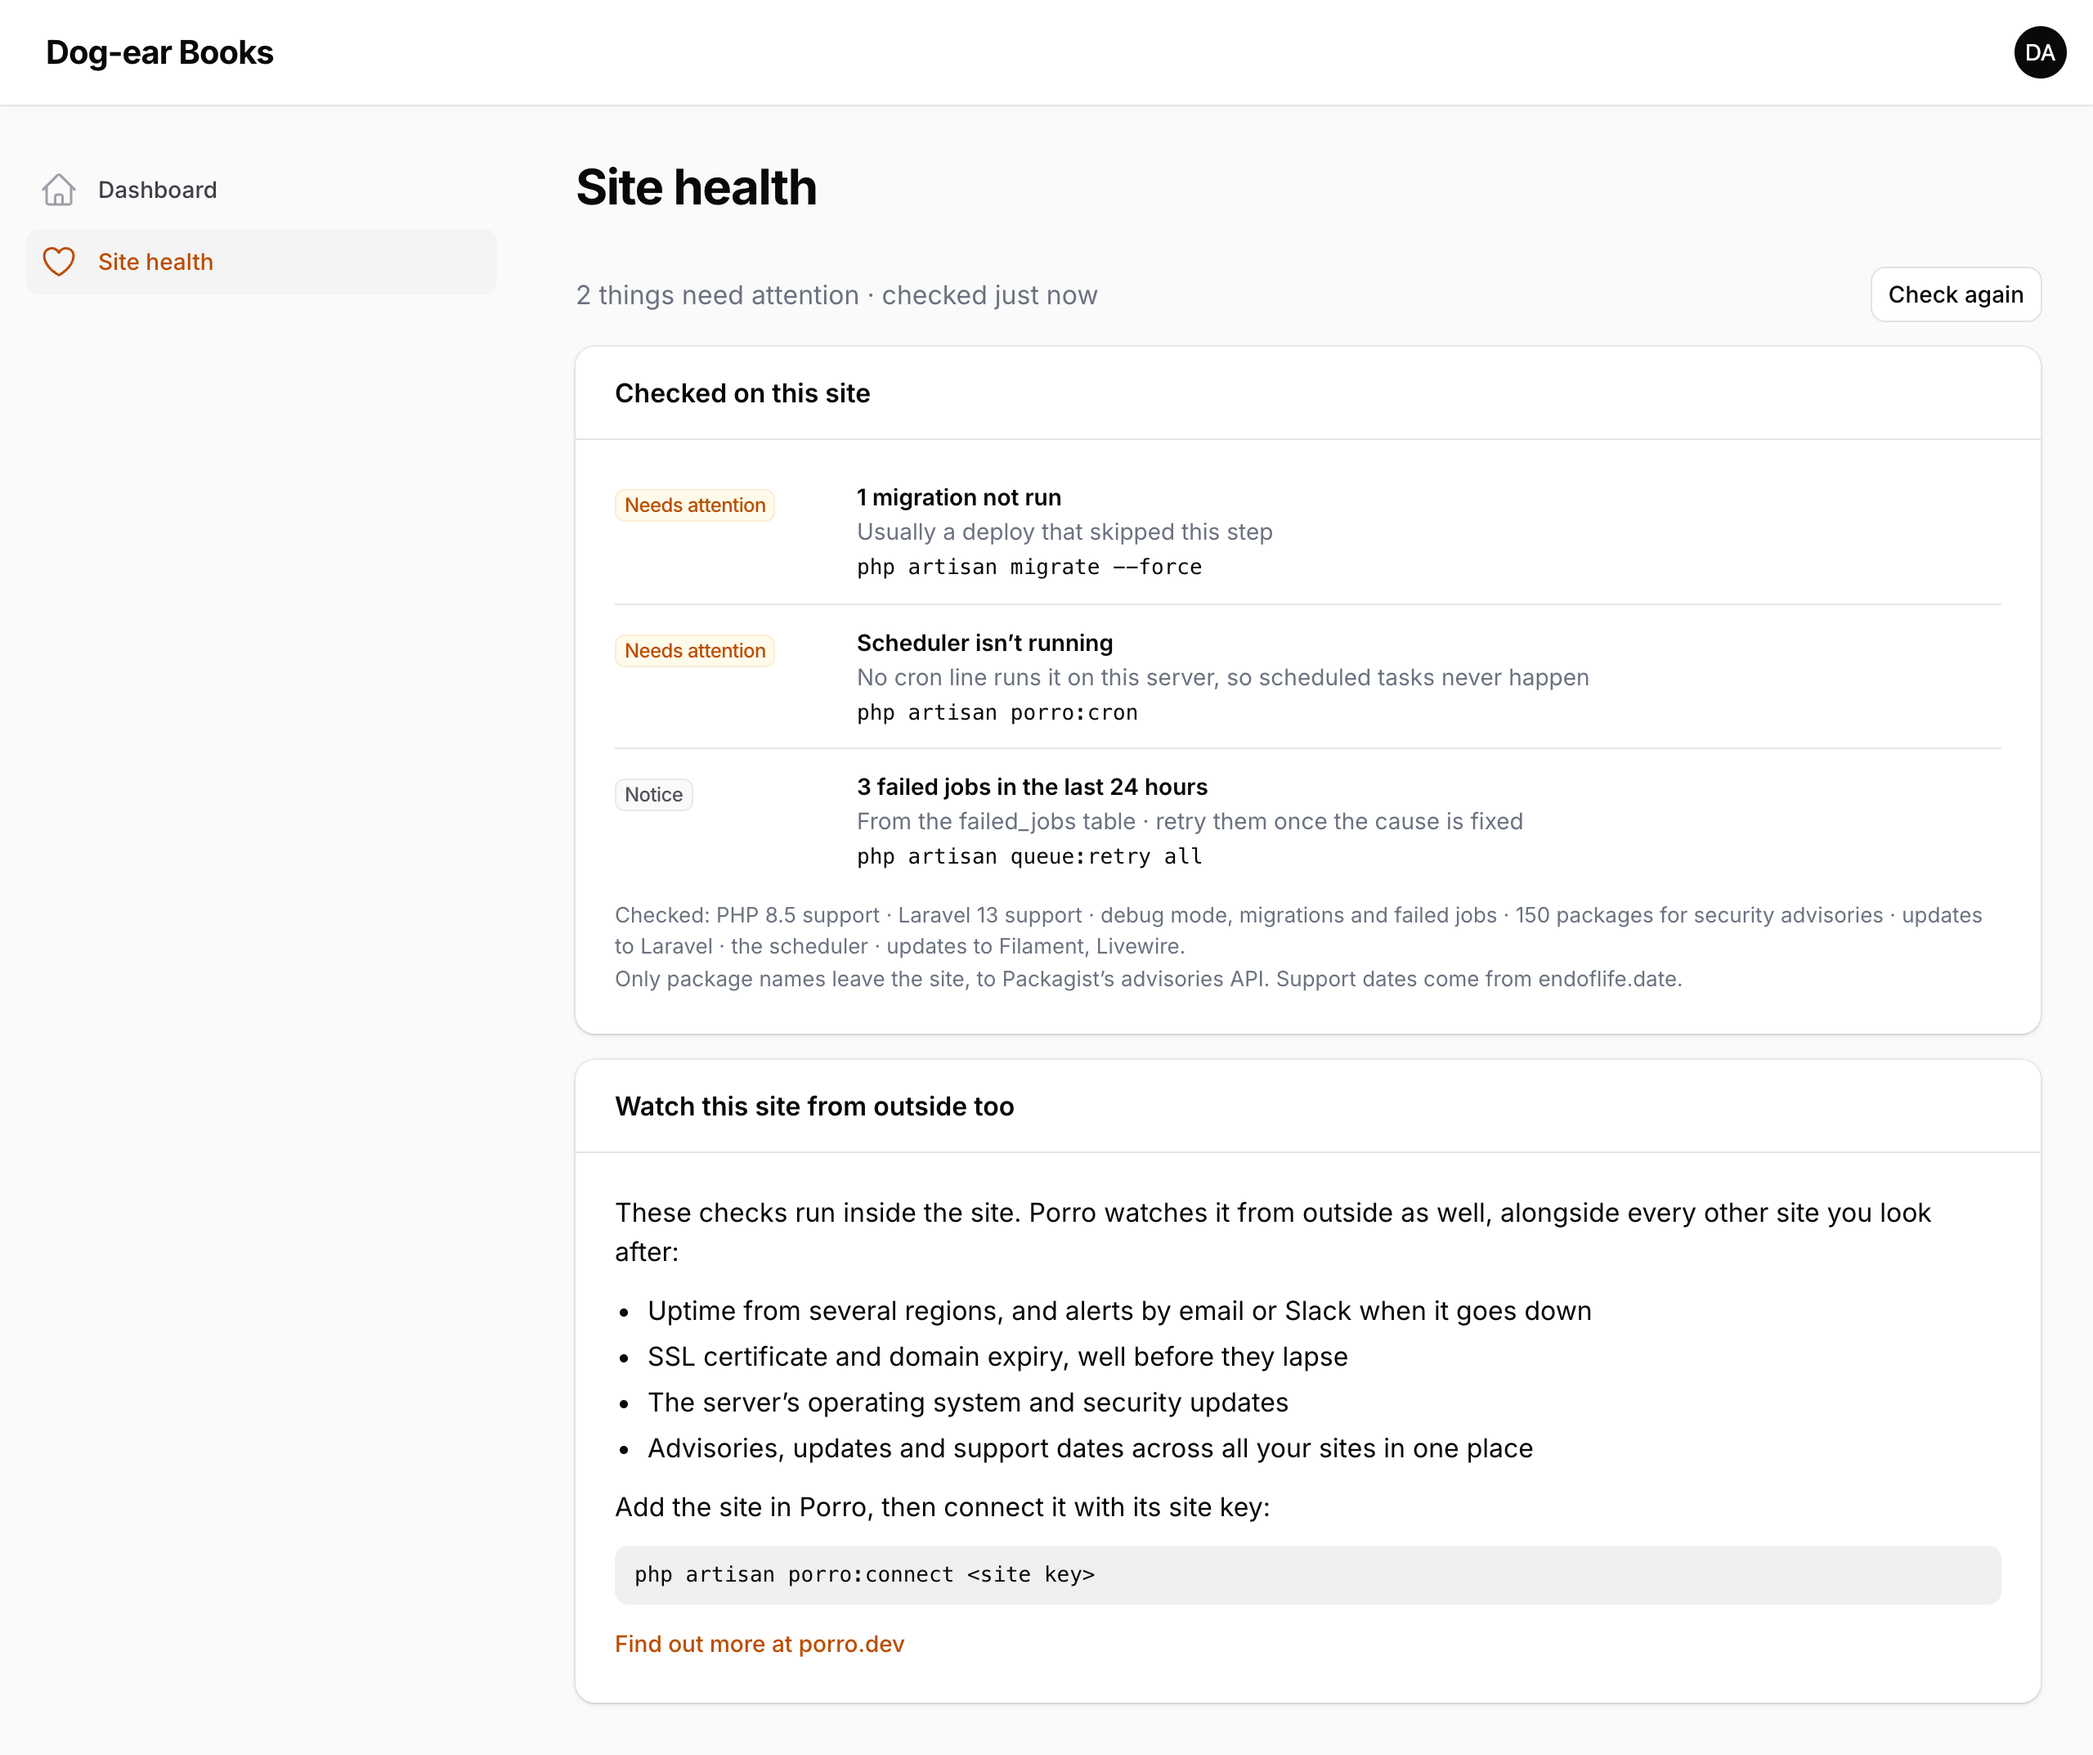
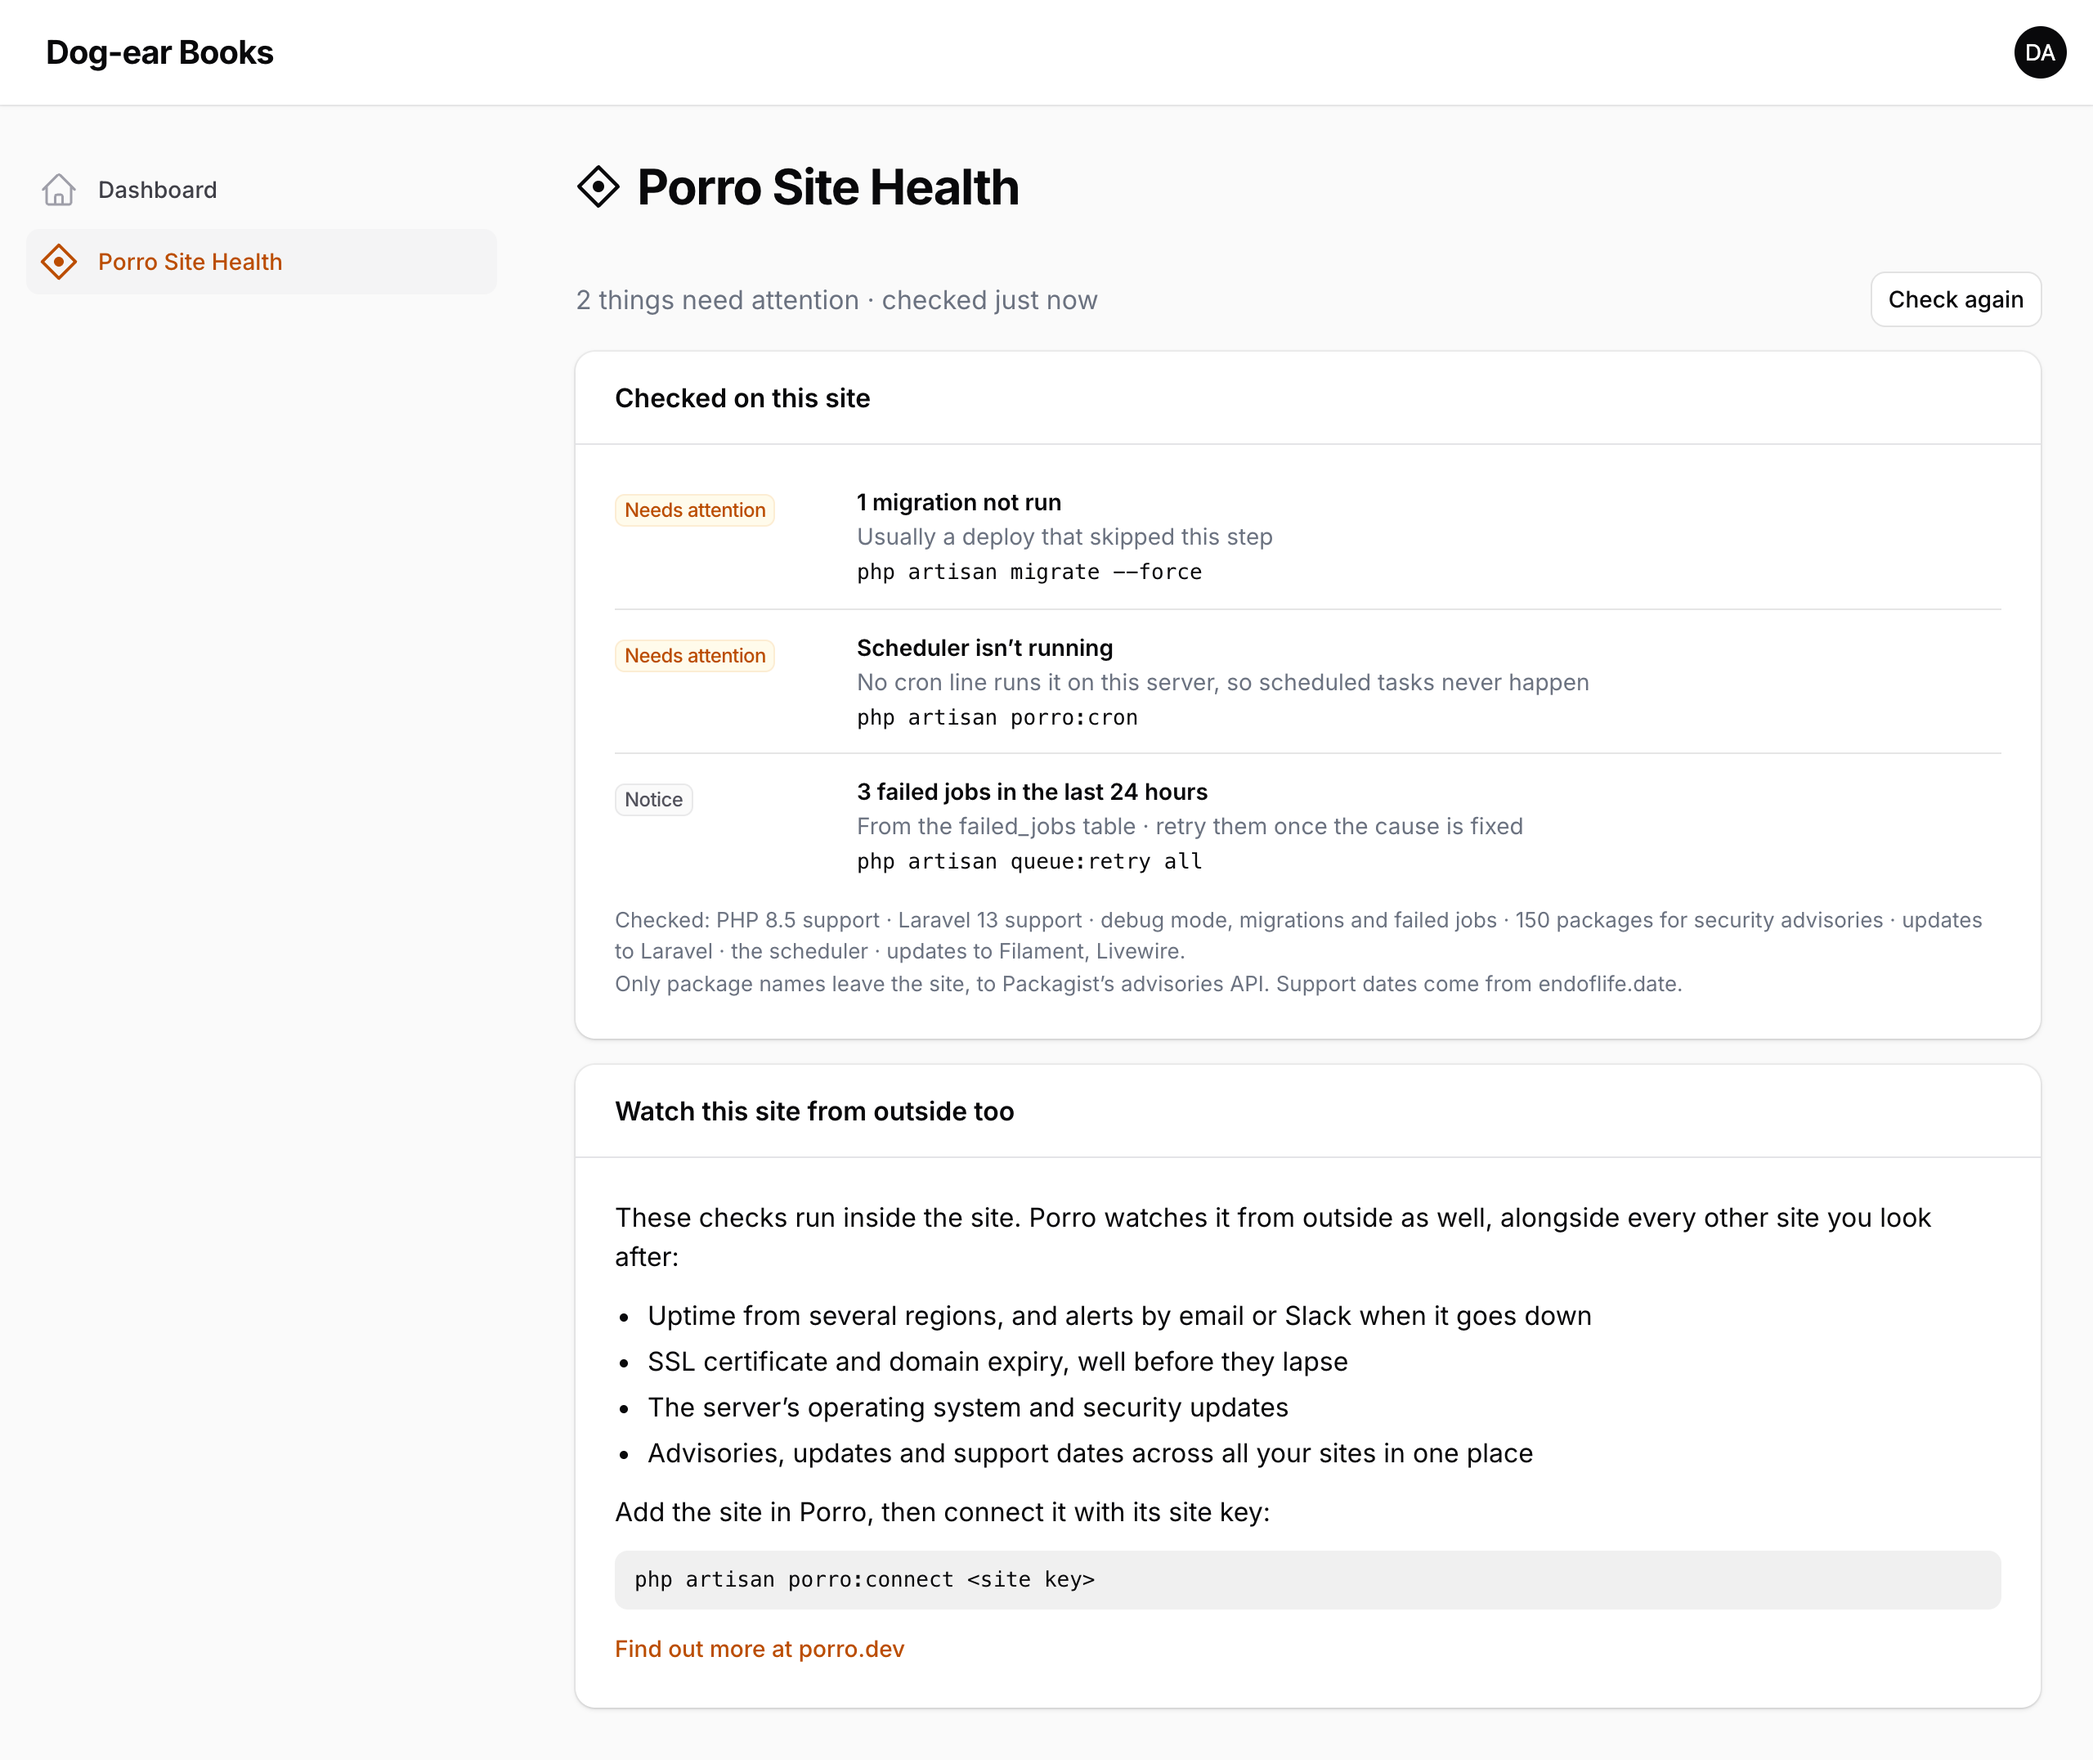
Brand it Porro Site Health, with the Porro mark
The page, nav item, widget and permission now say Porro Site Health,
and the Porro mark (the diamond and dot from Porro's own logo) is its
icon and sits beside the page heading, so people see Porro wherever
they see their site's health. Screenshots retaken from the demo.

diff --git a/tests/SiteHealthTest.php b/tests/SiteHealthTest.php
@@ -37,12 +37,13 @@ it('adds the Site health page to the panel', function () {
     expect(Filament::getPanel('admin')->getPages())->toContain(SiteHealthPage::class)
         ->and(Filament::getPanel('admin')->getWidgets())->toContain(SiteHealthWidget::class)
         ->and(SiteHealthPage::getSlug())->toBe('site-health')
-        ->and(SiteHealthPage::getNavigationLabel())->toBe('Site health');
+        ->and(SiteHealthPage::getNavigationLabel())->toBe('Porro Site Health')
+        ->and(SiteHealthPage::getNavigationIcon())->toBe('porro-mark');
 });
 
 it('leaves the panel’s other pages alone', function () {
-    expect(Dashboard::getNavigationLabel())->not->toBe('Site health')
-        ->and(Dashboard::getNavigationIcon())->not->toBe('heroicon-o-heart');
+    expect(Dashboard::getNavigationLabel())->not->toBe('Porro Site Health')
+        ->and(Dashboard::getNavigationIcon())->not->toBe('porro-mark');
 });
 
 it('shows the site’s health without a Porro account, with the connect command', function () {
@@ -51,6 +52,7 @@ it('shows the site’s health without a Porro account, with the connect command'
 
     Livewire::test(SiteHealthPage::class)
         ->assertSuccessful()
+        ->assertSee('Porro Site Health')
         ->assertSee('Checked on this site')
         ->assertSee('Filament '.strtok((string) InstalledVersions::getVersion('filament/filament'), '.').'.99.0 is available')
         ->assertSee('Scheduler isn’t running')
@@ -130,7 +132,7 @@ it('shows a dashboard widget with the top issues', function () {
     $this->actingAs(panelUser());
 
     Livewire::test(SiteHealthWidget::class)
-        ->assertSee('Site health')
+        ->assertSee('Porro Site Health')
         ->assertSee('SSL certificate expires in 9 days')
         ->assertSee(SiteHealthPage::getUrl());
 });

diff --git a/src/Pages/SiteHealthPage.php b/src/Pages/SiteHealthPage.php
@@ -4,6 +4,9 @@ namespace Porro\Filament\Pages;
 
 use Filament\Pages\Page;
 use Filament\Panel;
+use Illuminate\Contracts\Support\Htmlable;
+use Illuminate\Support\Facades\Blade;
+use Illuminate\Support\HtmlString;
 use Porro\Filament\PorroPlugin;
 use Porro\Filament\SiteHealthView;
 use Porro\Laravel\SiteHealth;
@@ -34,17 +37,29 @@ class SiteHealthPage extends Page
 
     public function getTitle(): string
     {
-        return __('Site health');
+        return __('Porro Site Health');
+    }
+
+    /**
+     * The title with the Porro mark in front, so the page always reads as
+     * Porro's.
+     */
+    public function getHeading(): Htmlable
+    {
+        return new HtmlString(Blade::render(
+            '<span style="display: inline-flex; align-items: center; gap: .6rem"><x-filament::icon icon="porro-mark" style="width: 1.75rem; height: 1.75rem" />{{ $title }}</span>',
+            ['title' => $this->getTitle()],
+        ));
     }
 
     public static function getNavigationLabel(): string
     {
-        return __('Site health');
+        return __('Porro Site Health');
     }
 
     public static function getNavigationIcon(): ?string
     {
-        return 'heroicon-o-heart';
+        return 'porro-mark';
     }
 
     public static function getNavigationGroup(): ?string

diff --git a/resources/views/widget.blade.php b/resources/views/widget.blade.php
@@ -1,7 +1,7 @@
 <x-filament-widgets::widget>
     @include('porro-filament::styles')
 
-    <x-filament::section :heading="__('Site health')">
+    <x-filament::section :heading="__('Porro Site Health')" icon="porro-mark">
         <div class="porro-health">
             <p class="porro-health-muted" role="status">@include('porro-filament::summary')</p>
 
@@ -10,7 +10,7 @@
             @endif
 
             <p class="porro-health-small">
-                <x-filament::link :href="$pageUrl">{{ $more ? trans_choice('See :count more|See :count more', $more, ['count' => $more]) : __('Open Site health') }}</x-filament::link>
+                <x-filament::link :href="$pageUrl">{{ $more ? trans_choice('See :count more|See :count more', $more, ['count' => $more]) : __('Open Porro Site Health') }}</x-filament::link>
                 @unless ($connected)
                     <span class="porro-health-muted"> · {{ __('Connect Porro for uptime, SSL and domain checks') }}</span>
                 @endunless

diff --git a/src/FilamentConnectorServiceProvider.php b/src/FilamentConnectorServiceProvider.php
@@ -2,6 +2,7 @@
 
 namespace Porro\Filament;
 
+use BladeUI\Icons\Factory;
 use Illuminate\Support\ServiceProvider;
 
 class FilamentConnectorServiceProvider extends ServiceProvider
@@ -10,6 +11,13 @@ class FilamentConnectorServiceProvider extends ServiceProvider
     {
         $this->app->tag([FilamentCollector::class], 'porro.collectors');
         $this->app->tag([FilamentHealth::class], 'porro.health');
+
+        // The Porro mark as an icon, "porro-mark", for the navigation, the
+        // page heading and the widget.
+        $this->callAfterResolving(Factory::class, fn (Factory $icons) => $icons->add('porro', [
+            'path' => __DIR__.'/../resources/svg',
+            'prefix' => 'porro',
+        ]));
     }
 
     public function boot(): void

diff --git a/README.md b/README.md
@@ -1,10 +1,10 @@
 # Porro Site Health for Filament
 
-A Site health page for Filament 3, 4 and 5 panels. It checks the app for the things that quietly go wrong between projects (security advisories in your Composer packages, PHP and Laravel versions running out of security support, Filament, Livewire and Laravel updates, a scheduler that never runs) and tells you what to do about each.
+A Porro Site Health page for Filament 3, 4 and 5 panels. It checks the app for the things that quietly go wrong between projects (security advisories in your Composer packages, PHP and Laravel versions running out of security support, Filament, Livewire and Laravel updates, a scheduler that never runs) and tells you what to do about each.
 
 It's free and works on its own. If you use [Porro](https://porro.dev) to look after your sites, connecting it adds what can only be seen from outside: uptime, SSL certificates, domain expiry and the server's operating system.
 
-![The Site health page in a Filament panel on a site that isn't connected to Porro: a migration not run, the scheduler not running and three failed jobs, with the commands that fix them](docs/images/filament-site-health.png)
+![The Porro Site Health page in a Filament panel on a site that isn't connected to Porro: a migration not run, the scheduler not running and three failed jobs, with the commands that fix them](docs/images/filament-site-health.png)
 
 ## Install
 
@@ -25,9 +25,9 @@ public function panel(Panel $panel): Panel
 }
 ```
 
-That adds a **Site health** page and a lazy-loaded dashboard widget. No assets to publish or build.
+That adds a **Porro Site Health** page, with the Porro mark in the navigation, and a lazy-loaded dashboard widget. No assets to publish or build.
 
-<img src="docs/images/filament-widget.png" alt="The Site health dashboard widget" width="400">
+<img src="docs/images/filament-widget.png" alt="The Porro Site Health dashboard widget" width="400">
 
 ### Options
 
@@ -75,7 +75,9 @@ php artisan porro:connect <site key>
 
 The page then shows the site's open findings in Porro alongside the checks above, each linking to Porro.
 
-![Site health connected to Porro, in dark mode: an end-of-life server, an expiring certificate and domain, and a slow region, above the checks run on the site](docs/images/filament-site-health-dark.png) Connecting also sends Porro a signed report every 15 minutes on Laravel's scheduler: Filament, Livewire, plugin and package versions, each panel's id, path, whether it has a login and (from Filament 4) whether multi-factor authentication is required, plus the health facts above. Never content, users or settings values. Run `php artisan porro:status --json` to see exactly what would be sent, and see the [Laravel connector](https://github.com/Porrodev/laravel-connector) for config and commands.
+![Porro Site Health connected to Porro, in dark mode: an end-of-life server, an expiring certificate and domain, and a slow region, above the checks run on the site](docs/images/filament-site-health-dark.png)
+
+Connecting also sends Porro a signed report every 15 minutes on Laravel's scheduler: Filament, Livewire, plugin and package versions, each panel's id, path, whether it has a login and (from Filament 4) whether multi-factor authentication is required, plus the health facts above. Never content, users or settings values. Run `php artisan porro:status --json` to see exactly what would be sent, and see the [Laravel connector](https://github.com/Porrodev/laravel-connector) for config and commands.
 
 `porro:connect` offers to add the scheduler's cron line; `php artisan porro:cron` adds it on its own.
 

diff --git a/CHANGELOG.md b/CHANGELOG.md
@@ -2,7 +2,7 @@
 
 ## Unreleased (0.2.0)
 
-- **Site health**: `PorroPlugin` adds a Site health page and a lazy dashboard widget to a panel. Without a Porro account they check security advisories in `composer.lock`, PHP and Laravel support dates, Filament, Livewire and Laravel updates, the scheduler, debug mode, migrations, failed jobs, backups and health checks. Once connected they add the site's open Porro findings with links into Porro.
+- **Porro Site Health**: `PorroPlugin` adds a Porro Site Health page, with the Porro mark as its icon, and a lazy dashboard widget to a panel. Without a Porro account they check security advisories in `composer.lock`, PHP and Laravel support dates, Filament, Livewire and Laravel updates, the scheduler, debug mode, migrations, failed jobs, backups and health checks. Once connected they add the site's open Porro findings with links into Porro.
 - Access: an `authorize()` callback, a `viewPorroSiteHealth` gate, or admins by the usual conventions.
 - Works on Filament 3, 4 and 5 with no assets to build.
 - The scheduler writes a heartbeat even before the site is connected, so the page can tell whether cron runs.
